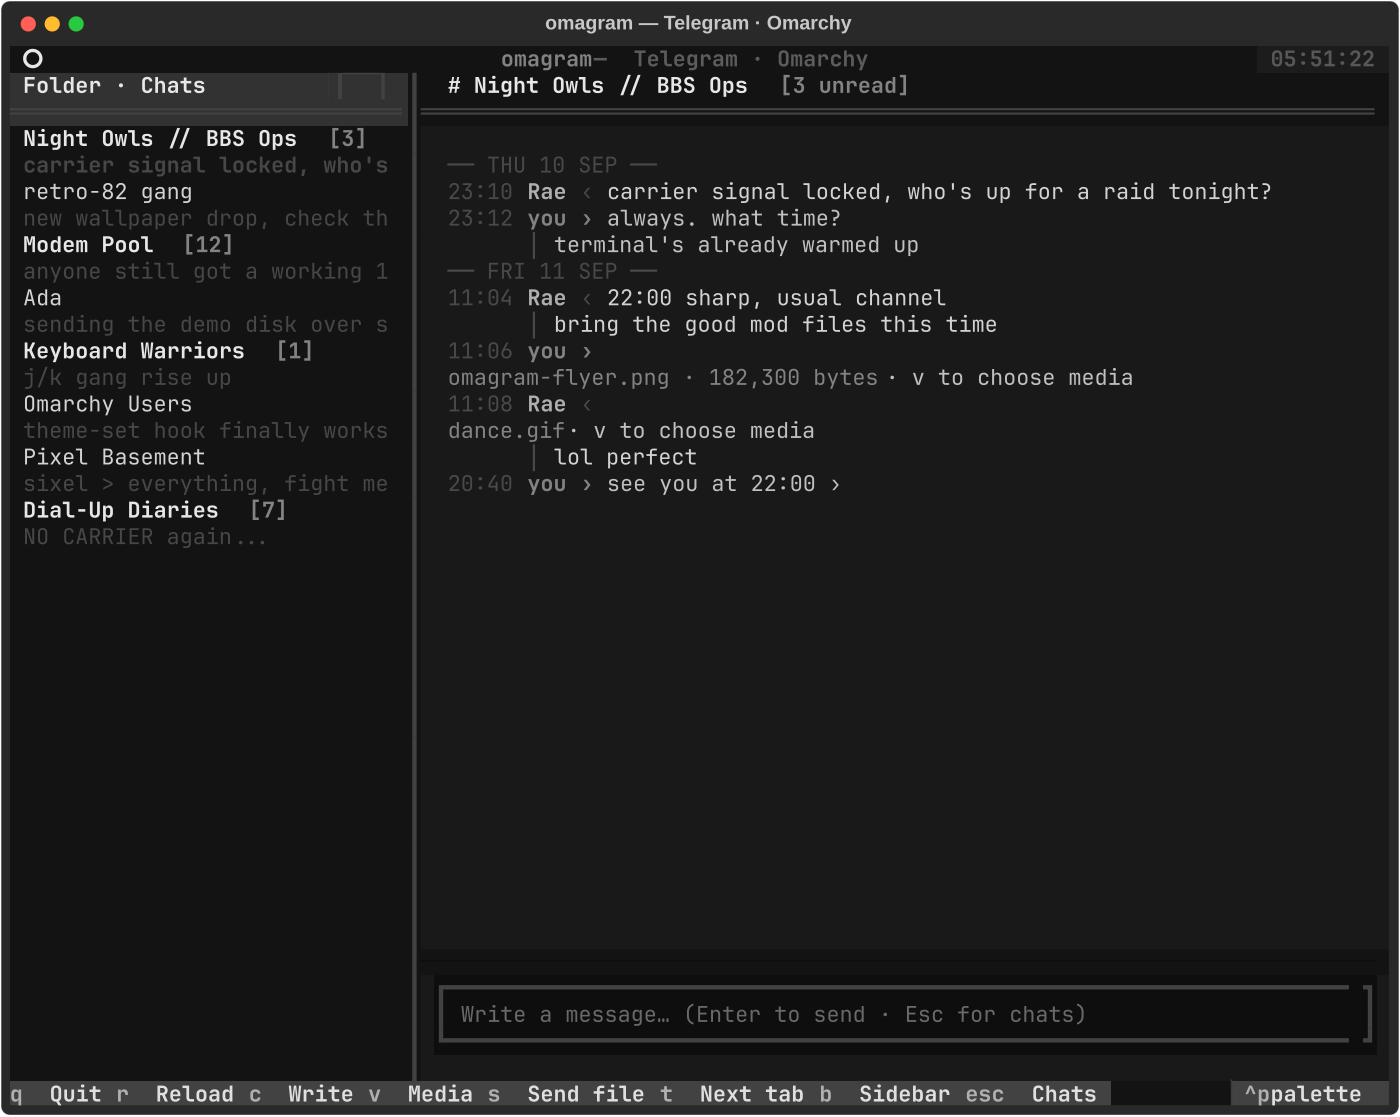
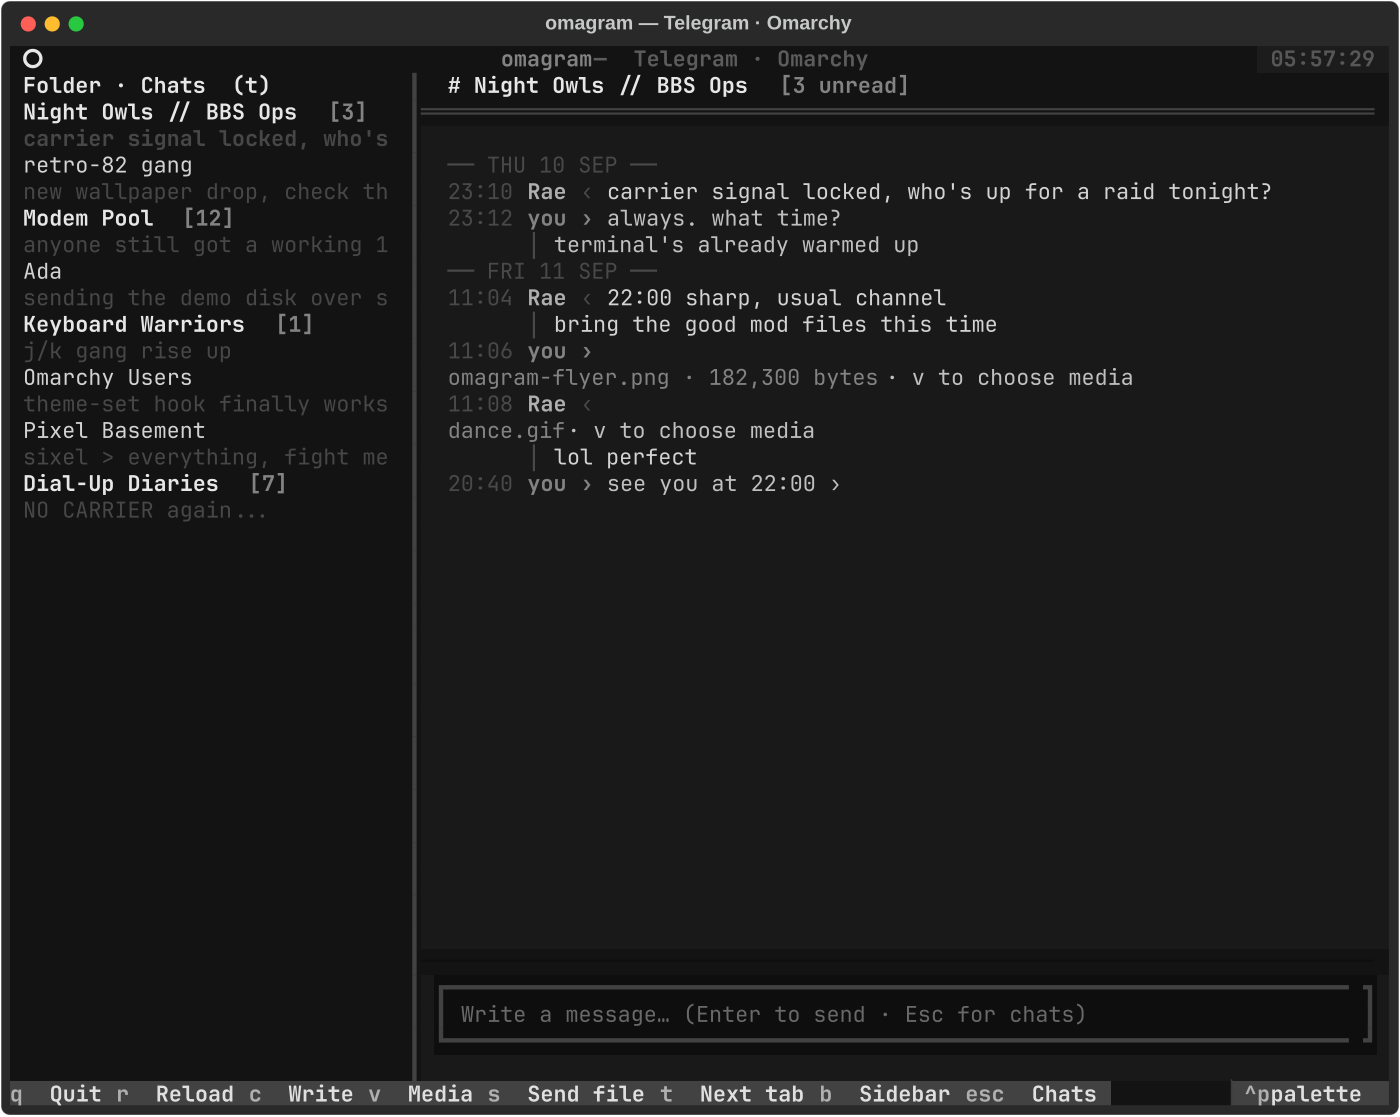
Replace broken folder popup with visible cycle

Changed region(s): [[0.0, 0.0609, 0.3071, 0.487]]

diff --git a/telegram_tui/app.py b/telegram_tui/app.py
@@ -172,17 +172,15 @@ def build_css(p: dict[str, str]) -> str:
     }}
 
     #dialog-tabs-label {{
-        width: 1fr;
+        width: 100%;
+        height: 1;
+        padding: 0 1;
         color: {p["bright_foreground"]};
         text-style: bold;
     }}
 
     #dialog-tabs {{
-        width: 5;
-        height: 2;
-        border: tall {p["selection"]};
-        background: {p["lighter_background"]};
-        color: {p["bright_foreground"]};
+        display: none;
     }}
 
     #dialogs {{
@@ -657,12 +655,11 @@ class TelegramTui(App[None]):
         yield Header(show_clock=True)
         with Horizontal(id="layout"):
             with Vertical(id="sidebar"):
-                with Horizontal(id="dialog-tabs-wrap"):
-                    yield Static("Chats", id="dialog-tabs-label")
-                    yield Select(
-                        [("Chats", "all"), ("Private", "private"), ("Groups", "groups")],
-                        value="all", allow_blank=False, id="dialog-tabs"
-                    )
+                yield Static("CHATS  [t]", id="dialog-tabs-label", markup=False)
+                yield Select(
+                    [("Chats", "all"), ("Private", "private"), ("Groups", "groups")],
+                    value="all", allow_blank=False, id="dialog-tabs"
+                )
                 yield ChatListView(id="dialogs")
             with Vertical(id="chat"):
                 yield Static("[dim]Select a chat · j/k to navigate · Enter to open[/dim]", id="chat-title")
@@ -821,7 +818,7 @@ class TelegramTui(App[None]):
         select.set_options([(tab.title, tab.key) for tab in tabs])
         select.value = self._active_tab if any(tab.key == self._active_tab for tab in tabs) else tabs[0].key
         active = next(tab for tab in tabs if tab.key == select.value)
-        self.query_one("#dialog-tabs-label", Static).update(f"Folder · {active.title}")
+        self.query_one("#dialog-tabs-label", Static).update(f"Folder · {active.title}  (t)")
 
     async def on_select_changed(self, event: Select.Changed) -> None:
         if event.select.id != "dialog-tabs" or event.value == Select.BLANK:
@@ -829,10 +826,12 @@ class TelegramTui(App[None]):
         if str(event.value) == self._active_tab:
             return
         self._active_tab = str(event.value)
-        self.query_one("#dialog-tabs-label", Static).update(
-            f"Folder · {next((tab.title for tab in self._dialog_tabs if tab.key == self._active_tab), self._active_tab)}"
-        )
+        self._update_tab_button()
         self.run_worker(self._reload_dialogs(), group="dialog-tab", exclusive=True, exit_on_error=False)
+
+    def _update_tab_button(self) -> None:
+        title = next((tab.title for tab in self._dialog_tabs if tab.key == self._active_tab), self._active_tab)
+        self.query_one("#dialog-tabs-label", Static).update(f"Folder · {title}  (t)")
 
     def action_cycle_tab(self) -> None:
         keys = [tab.key for tab in self._dialog_tabs]
@@ -841,9 +840,7 @@ class TelegramTui(App[None]):
         index = keys.index(self._active_tab) if self._active_tab in keys else -1
         self._active_tab = keys[(index + 1) % len(keys)]
         self.query_one("#dialog-tabs", Select).value = self._active_tab
-        self.query_one("#dialog-tabs-label", Static).update(
-            f"Folder · {next(tab.title for tab in self._dialog_tabs if tab.key == self._active_tab)}"
-        )
+        self._update_tab_button()
 
     def action_show_info(self) -> None:
         self.push_screen(InfoScreen())
